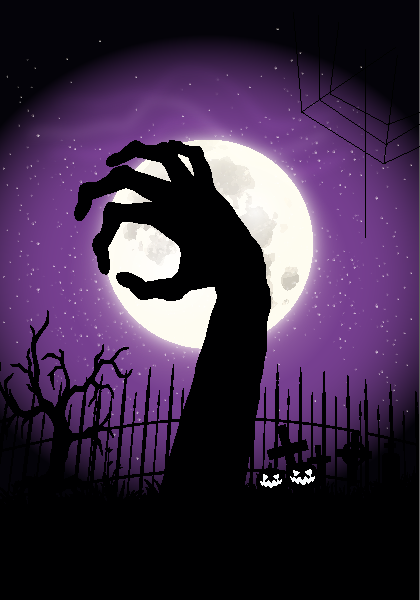
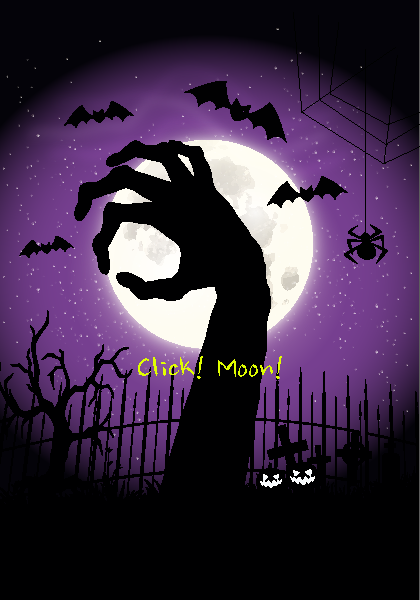
ew

diff --git a/index.html b/index.html
@@ -4,8 +4,6 @@
     <script src="http://cdnjs.cloudflare.com/ajax/libs/p5.js/0.3.7/p5.min.js"></script>
     <script src="sketch.js"></script>
   </head>
-
-  	Click! Moon!
   	<audio controls>
   	<source src="HalloweenSong.mp3" type="audio/mpeg">
 </audio>
